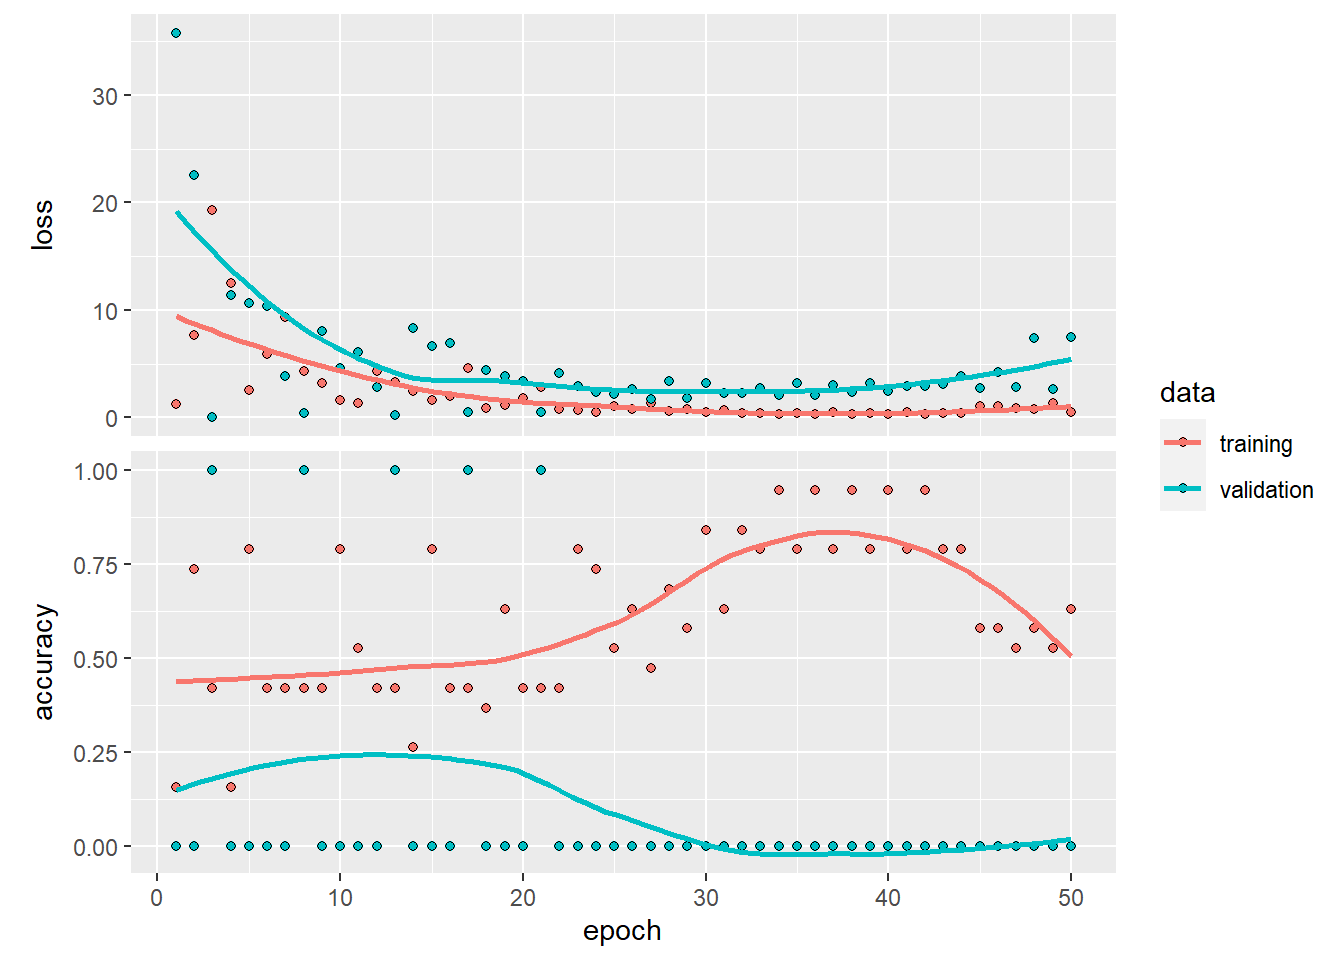
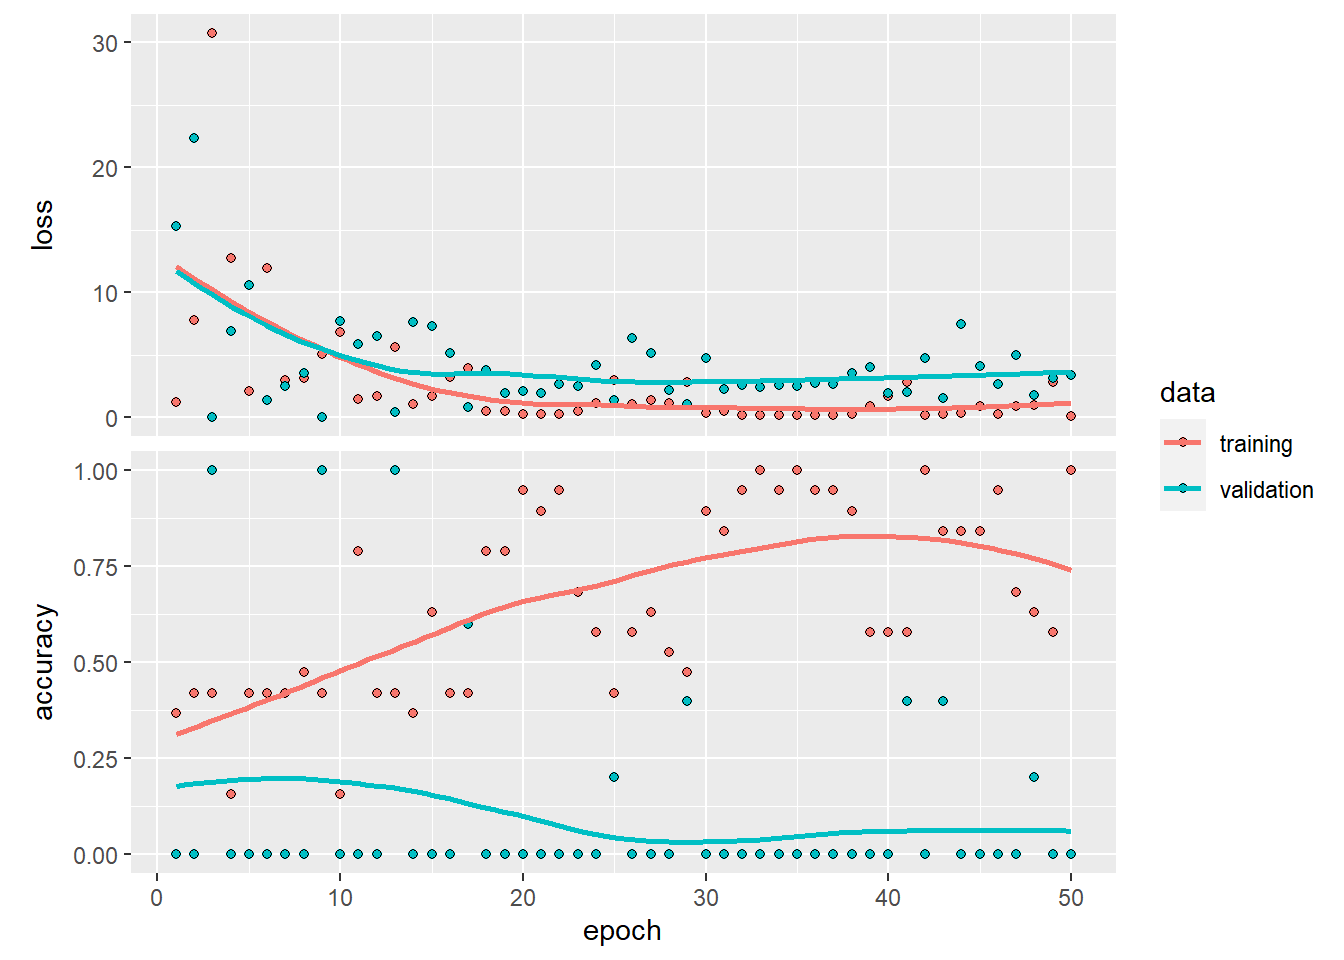
final commit

diff --git a/content/post/2021-01-12-f-first-attempt-at-ml-with-r-image-recognition/index.html b/content/post/2021-01-12-f-first-attempt-at-ml-with-r-image-recognition/index.html
@@ -235,32 +235,32 @@ you can see the accuraxy along the epochs. The training data is shown by the red
 the validation or testing data is shown by the blue line. Let’s look at more data to
 evaluate the model.</p>
 <pre><code>##      loss  accuracy 
-## 2.2530499 0.6666667</code></pre>
+## 0.7455325 0.7916667</code></pre>
 <pre><code>##                                             Predicted Actual
-##  [1,] 0.996188581 0.0037972815 1.409807e-05         0      0
-##  [2,] 0.998562515 0.0014355985 1.940601e-06         0      0
-##  [3,] 0.999203265 0.0007967816 4.119271e-08         0      0
-##  [4,] 0.998215437 0.0017843307 2.869743e-07         0      0
-##  [5,] 0.948787391 0.0508947074 3.178826e-04         0      0
-##  [6,] 0.995628953 0.0043423977 2.864071e-05         0      0
-##  [7,] 0.983965397 0.0148377083 1.196900e-03         0      0
-##  [8,] 0.932269335 0.0675853938 1.452332e-04         0      0
-##  [9,] 0.440738797 0.5588894486 3.717239e-04         1      1
-## [10,] 0.011517044 0.9883859158 9.708201e-05         1      1
-## [11,] 0.236574918 0.7626495361 7.754813e-04         1      1
-## [12,] 0.002781472 0.9972003698 1.823099e-05         1      1
-## [13,] 0.022910126 0.9770566821 3.320931e-05         1      1
-## [14,] 0.016144302 0.9838433862 1.235387e-05         1      1
-## [15,] 0.087905511 0.9120830297 1.152635e-05         1      1
-## [16,] 0.091045380 0.9088710546 8.352024e-05         1      1
-## [17,] 0.949879825 0.0168156885 3.330448e-02         0      2
-## [18,] 0.956972659 0.0311144833 1.191285e-02         0      2
-## [19,] 0.994213760 0.0052017956 5.843689e-04         0      2
-## [20,] 0.675254703 0.3246681094 7.715799e-05         0      2
-## [21,] 0.771245182 0.2281832397 5.715425e-04         0      2
-## [22,] 0.207590163 0.7919828296 4.269011e-04         1      2
-## [23,] 0.486499816 0.5094262958 4.073922e-03         1      2
-## [24,] 0.535332859 0.4640255272 6.415175e-04         0      2</code></pre>
+##  [1,] 0.9781156182 0.007060875 0.0148235224         0      0
+##  [2,] 0.9841300249 0.003862419 0.0120075792         0      0
+##  [3,] 0.9915374517 0.005872046 0.0025904581         0      0
+##  [4,] 0.9905920625 0.005317494 0.0040904400         0      0
+##  [5,] 0.8950932622 0.080638334 0.0242684186         0      0
+##  [6,] 0.9718229771 0.009160051 0.0190169867         0      0
+##  [7,] 0.9196797609 0.016752796 0.0635674745         0      0
+##  [8,] 0.7736937404 0.197635815 0.0286704097         0      0
+##  [9,] 0.1137151867 0.868834436 0.0174503215         1      1
+## [10,] 0.0017385932 0.996764302 0.0014970432         1      1
+## [11,] 0.0838277042 0.880229771 0.0359425582         1      1
+## [12,] 0.0007054033 0.998795867 0.0004987679         1      1
+## [13,] 0.0058028395 0.992544830 0.0016522972         1      1
+## [14,] 0.0032811309 0.995853186 0.0008656855         1      1
+## [15,] 0.0608024150 0.936793149 0.0024044800         1      1
+## [16,] 0.0273629166 0.968051672 0.0045854622         1      1
+## [17,] 0.0396098979 0.003549366 0.9568406940         2      2
+## [18,] 0.1045625582 0.031214055 0.8642234206         2      2
+## [19,] 0.0512943268 0.007607549 0.9410981536         2      2
+## [20,] 0.4425988793 0.552411139 0.0049899472         1      2
+## [21,] 0.3492200077 0.527367651 0.1234124005         1      2
+## [22,] 0.0966395438 0.886955976 0.0164044611         1      2
+## [23,] 0.1814621538 0.622746944 0.1957908720         1      2
+## [24,] 0.2871125042 0.685309947 0.0275776573         1      2</code></pre>
 <p>As you can see, the model’s accuracy is ~80%.
 It recognized 19 of the 24 images correctly.
 All the false regonitions are sloths.</p>
